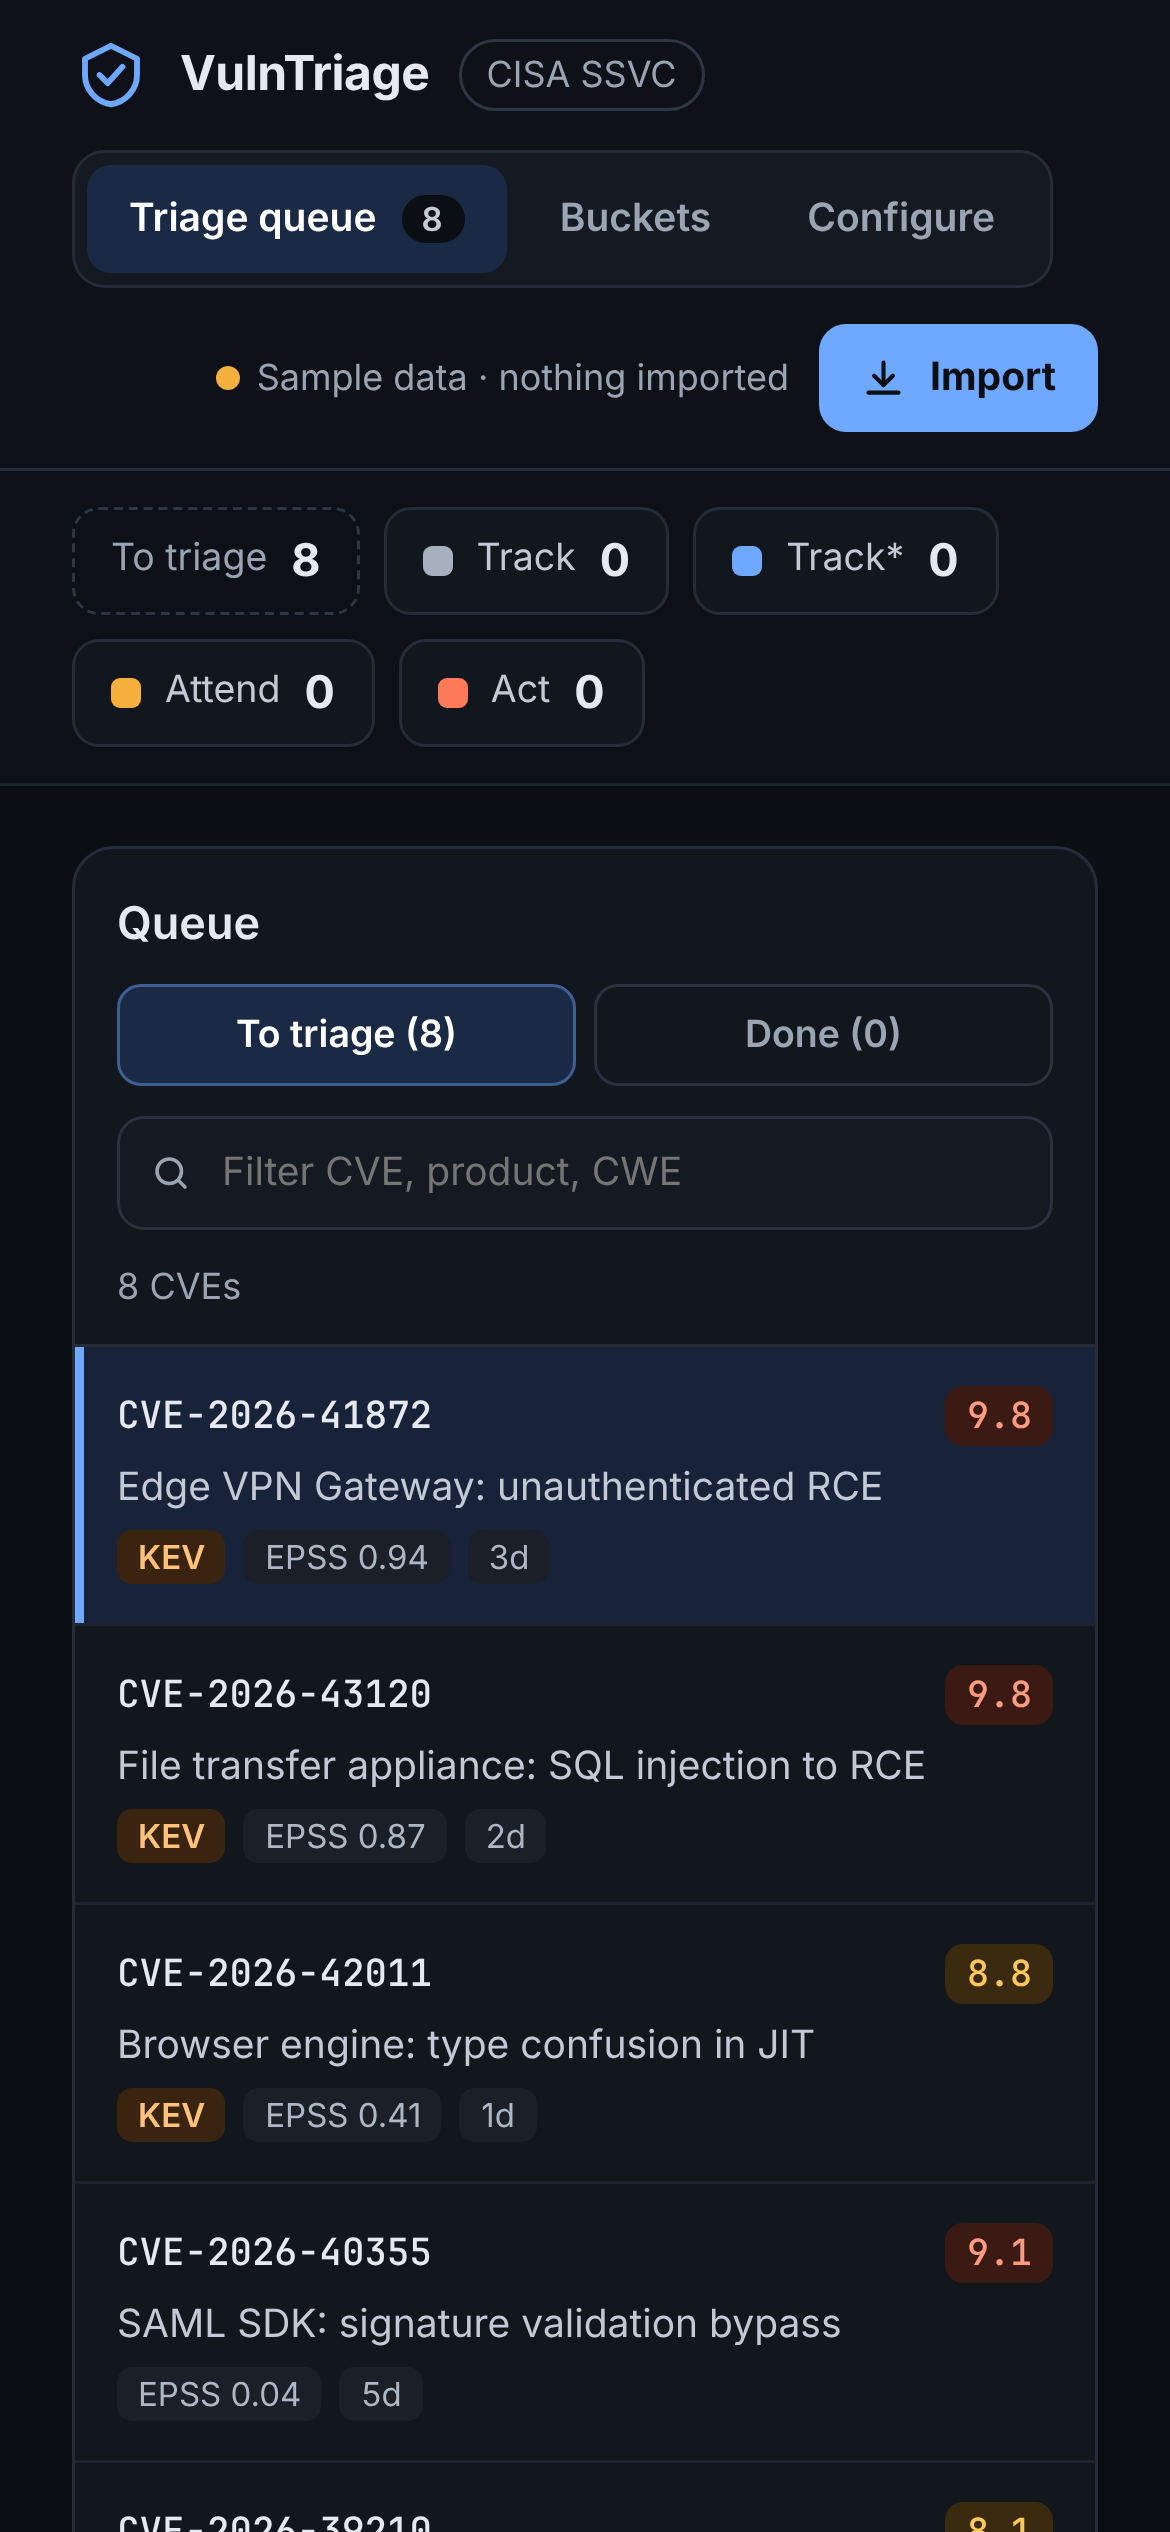
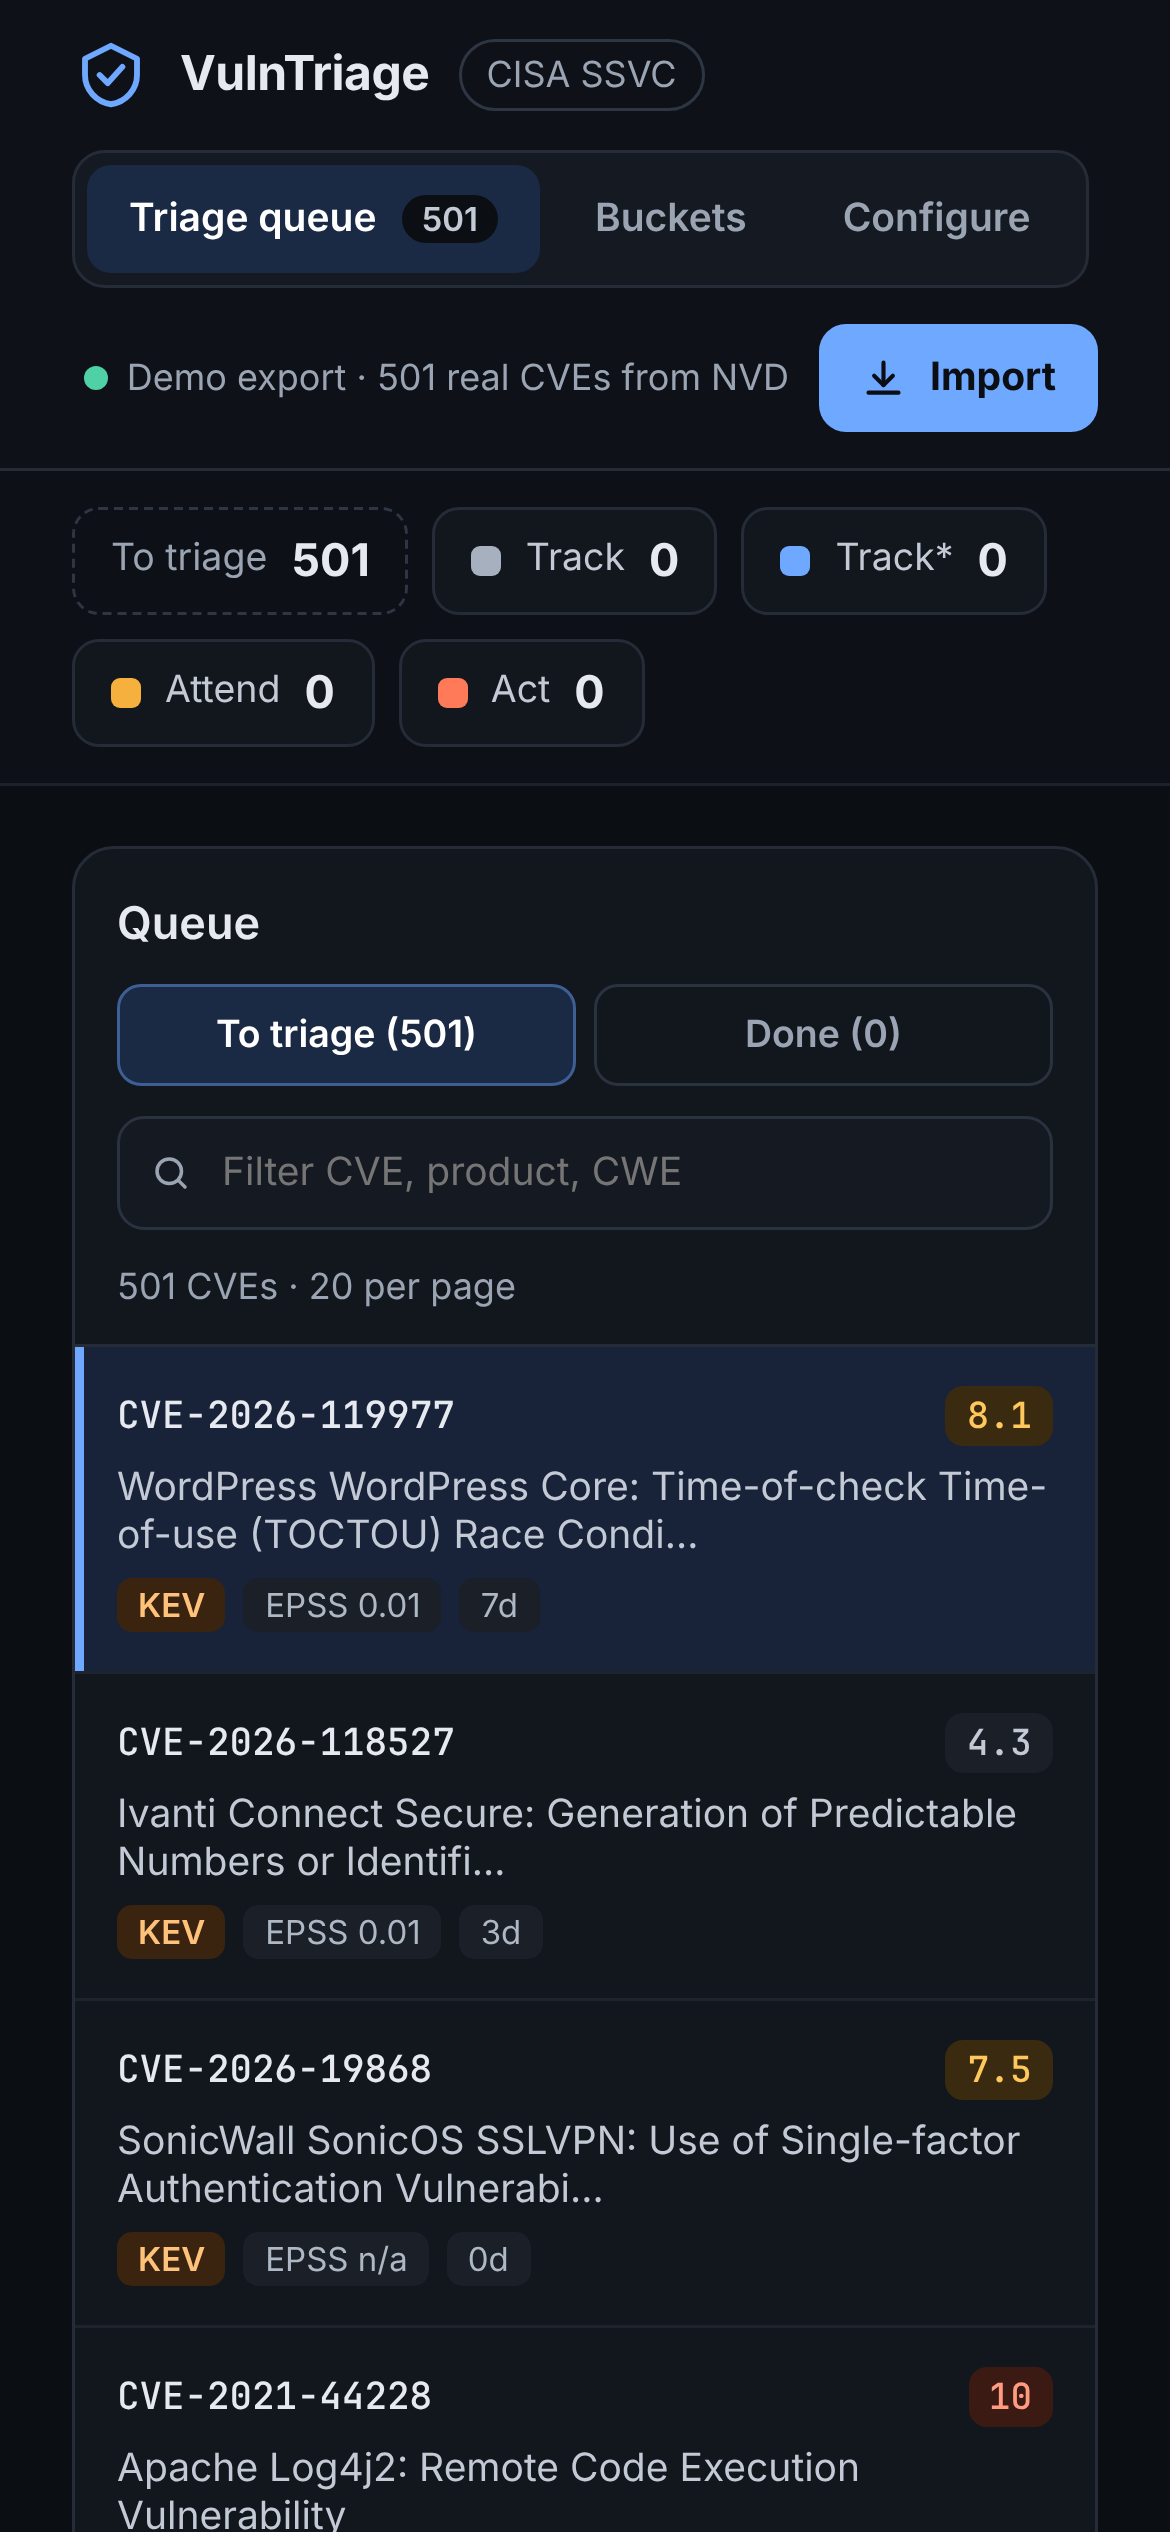
Open on the 501-CVE demo export instead of the invented samples
A first visit, or a browser that only ever had the samples, now loads
examples/triage-queue-demo.json as the queue. Saved imports and
decisions are kept. Opened from disk, where the request is blocked,
the page falls back to the eight built-in samples. Clear saved data
returns to the demo export, the header reads "Demo export · 501 real
CVEs from NVD", and the import toggle says what it will replace.

Screenshots now show the real data; the README follows.

diff --git a/src/app.js b/src/app.js
@@ -7,6 +7,26 @@ class Component extends DCLogic {
       filterText: '', rationale: '', qpage: null, boardShow: {}, pasteOpen: false, replaceSampleApplied: false };
     const saved = this.loadSaved();
     if (saved) Object.assign(this.state, saved);
+    // Nothing of the user's own yet: open on the demo export rather than the eight invented samples.
+    this._wantDemo = !saved || (!saved.imported.length && !Object.keys(saved.records).length);
+  }
+
+  componentDidMount() { if (this._wantDemo) this.loadDemoDataset(); }
+
+  demoUrl() { return 'examples/triage-queue-demo.json'; }
+
+  // Loads the demo export as the queue, replacing the built-in samples. Opened from disk
+  // (file://) the request fails and the samples stay, which still works offline.
+  loadDemoDataset() {
+    return fetch(this.demoUrl(), { cache: 'no-cache' }).then((r) => { if (!r.ok) throw new Error('HTTP ' + r.status); return r.json(); })
+      .then((doc) => {
+        const items = this.fromExport(doc);
+        if (!items.length || this.state.imported.length) return;
+        const first = items.find((v) => !this.state.records[v.id]) || items[0];
+        this.setState({ imported: items, replaceSampleApplied: true, sel: first.id, ans: {}, rationale: '', qpage: null, skipped: {},
+          importMeta: { name: 'the demo export', generated: doc.generated_at, count: items.length, demo: true } });
+      })
+      .catch(() => { /* keep the built-in samples */ });
   }
 
   palette() { return ['#A7B0BE', '#6EA8FF', '#4FD1A5', '#F5B03D', '#FF7A59', '#C792EA']; }
@@ -476,14 +496,16 @@ class Component extends DCLogic {
           sel: first.id, ans: {}, rationale: '', importMeta: { name: pvw.fileName, generated: pvw.doc.generated_at, count: imported.length },
           toast: { text: 'Imported ' + added + ' new' + (updated ? ', updated ' + updated : '') + ' from ' + pvw.fileName, color: '#6EA8FF' } });
       },
+      replaceLabel: st.importMeta && st.importMeta.demo ? 'Replace the demo CVEs (otherwise imports are added to the queue)'
+        : (st.imported.length ? 'Replace earlier imports and the sample CVEs (otherwise imports are added to the queue)' : 'Replace the sample CVEs (otherwise imports are added to the queue)'),
       sourceDot: st.importMeta ? 'background: #4FD1A5' : 'background: #F5B03D',
-      sourceText: st.importMeta ? st.importMeta.count + ' imported from ' + st.importMeta.name : 'Sample data · nothing imported',
+      sourceText: st.importMeta ? (st.importMeta.demo ? 'Demo export · ' + st.importMeta.count + ' real CVEs from NVD' : st.importMeta.count + ' imported from ' + st.importMeta.name) : 'Sample data · nothing imported',
       filterText: st.filterText, setFilter: (e) => this.setState({ filterText: e.target.value, qpage: 0 }),
       rationale: st.rationale, setRationale: (e) => this.setState({ rationale: e.target.value }),
       pasteOpen: st.pasteOpen, pasteExpanded: st.pasteOpen ? 'true' : 'false', pasteVal: st.paste,
       togglePaste: () => this.setState({ pasteOpen: !this.state.pasteOpen }),
       loadDemo: () => {
-        fetch('examples/triage-queue-demo.json').then((r) => { if (!r.ok) throw new Error('HTTP ' + r.status); return r.text(); })
+        fetch(this.demoUrl(), { cache: 'no-cache' }).then((r) => { if (!r.ok) throw new Error('HTTP ' + r.status); return r.text(); })
           .then((txt) => this.readText(txt, 'triage-queue-demo.json'))
           .catch(() => this.setState({ importErr: 'Could not load the demo file. Serve the folder over HTTP (for example: python3 -m http.server) rather than opening index.html directly.' }));
       },
@@ -513,7 +535,8 @@ class Component extends DCLogic {
       clearSaved: () => {
         if (!window.confirm('Clear the saved flow, decisions and imports from this browser?')) return;
         try { window.localStorage.removeItem(this.storageKey()); } catch (_) { /* ignore */ }
-        this.setState({ config: this.cisa(), records: {}, imported: [], importMeta: null, replaceSampleApplied: false, sel: 'CVE-2026-41872', ans: {}, rationale: '', skipped: {}, toast: null });
+        this.setState({ config: this.cisa(), records: {}, imported: [], importMeta: null, replaceSampleApplied: false, sel: 'CVE-2026-41872', ans: {}, rationale: '', skipped: {}, toast: null, qpage: null, boardShow: {} });
+        this.loadDemoDataset();
       },
       tabs: tabs, isQueue: st.tab === 'queue', isBoard: st.tab === 'board', isConfig: st.tab === 'config',
       flowName: cfg.name, setFlowName: (e) => { const v = e.target.value; this.upd((c) => { c.name = v; }); },

diff --git a/index.html b/index.html
@@ -96,7 +96,7 @@
             </div>
             <button onClick="{{toggleReplace}}" aria-pressed="{{pv.replacePressed}}" style="display: flex; align-items: center; gap: 10px; background: transparent; border: 0; color: #C3CAD5; font-size: 13px; cursor: pointer; padding: 4px 0; text-align: left">
               <span style="width: 36px; height: 22px; border-radius: 999px; padding: 3px; box-sizing: border-box; display: flex; {{pv.trackStyle}}"><span style="width: 16px; height: 16px; border-radius: 50%; background: #FFFFFF; {{pv.knobStyle}}"></span></span>
-              Replace the sample CVEs (otherwise imports are added to the queue)
+              {{replaceLabel}}
             </button>
           </div>
           <div style="display: flex; justify-content: flex-end; gap: 10px">

diff --git a/README.md b/README.md
@@ -19,7 +19,7 @@
 </p>
 
 <p align="center">
-  <img alt="Triage view: the evidence for each SSVC decision point pre-filled on a KEV-listed VPN gateway RCE, with the path resolving to Act, and the CVSS attack path on the right" src="docs/screenshots/overview.png" width="900">
+  <img alt="Triage view: the evidence for each SSVC decision point pre-filled on a KEV-listed WordPress Core flaw from the demo export, with the path resolving to Act, and the CVSS attack path on the right" src="docs/screenshots/overview.png" width="900">
 </p>
 
 ---
@@ -66,11 +66,11 @@ cd VulnTriage
 python3 -m http.server 8000
 ```
 
-1. Open <http://localhost:8000>. Eight invented sample CVEs are already in the queue.
+1. Open <http://localhost:8000>. The queue opens on the demo export: the top 500 of the CVEs NVD published in the week to 7 November 2026, plus Log4Shell.
 2. Press **Pre-fill from evidence**, answer **Mission & well-being**, add a rationale and **Move to bucket**.
-3. Choose **Import › Load demo export** to bring in a real VulnFlow export: 500 CVEs from NVD's Recent feed, plus Log4Shell.
+3. Choose **Import** to load your own VulnFlow export, alongside the demo CVEs or in place of them.
 
-Opening `index.html` straight from disk also works, except **Load demo export**, which needs HTTP.
+Opening `index.html` straight from disk also works, but browsers block the demo file there, so the queue starts on eight invented sample CVEs instead.
 
 ## Use cases
 
@@ -104,7 +104,7 @@ Three columns: the queue, the decision, and the evidence.
   <sub>The outcome, its remediation target, the rationale and the decision vector that gets recorded</sub>
 </p>
 
-Imported CVEs carry real data. Here is Log4Shell from the VulnFlow demo export, pre-filled from its KEV listing and CVSS vector:
+Here is Log4Shell from the demo export, pre-filled from its KEV listing and CVSS vector:
 
 <img alt="Log4Shell imported from VulnFlow: Exploitation Active from the KEV listing, Automatable Yes from AV:N/AC:L/PR:N/UI:N, and NVD's summary, fixed versions and exploit references on the right" src="docs/screenshots/log4shell.png" width="900">
 
@@ -155,7 +155,7 @@ Or, from a VulnFlow checkout:
 uv run examples/scripts/triage_queue.py data/triage-queue.json --min-epss 0.01
 ```
 
-Then **Import** in the top bar and drop the file in. The preview shows how many CVEs, how many are in KEV and how many are already in the queue. Re-imported CVEs are updated, not duplicated; switch on **Replace the sample CVEs** to drop the built-in examples.
+Then **Import** in the top bar and drop the file in. The preview shows how many CVEs, how many are in KEV and how many are already in the queue. Re-imported CVEs are updated, not duplicated; switch on **Replace** to drop the demo CVEs (or the built-in samples) and keep only your export.
 
 <p align="center">
   <img alt="Import dialog previewing the VulnFlow demo export: 501 CVEs, 4 in KEV, 3,603 matched before the 500 limit" src="docs/screenshots/import.png" width="640">
@@ -176,7 +176,7 @@ Anything else can produce the format too. It's documented in [`docs/queue-schema
 Everything lives in the browser's `localStorage`. Nothing is sent anywhere.
 
 > [!IMPORTANT]
-> Clearing site data removes your decisions. Export them from **Buckets** and your flow from **Configure** before you do. **Clear saved data** in Configure resets the page to the sample data.
+> Clearing site data removes your decisions. Export them from **Buckets** and your flow from **Configure** before you do. **Clear saved data** in Configure resets the page to the demo export.
 
 | Format | Written by | Contents |
 |---|---|---|
@@ -226,7 +226,7 @@ The script serves the repository itself, clears local storage, and drives the re
 
 - **The CISA outcome table is transcribed by hand.** It needs tests against the CISA SSVC guide before anyone relies on it.
 - **Single browser.** Sharing a queue across a team needs a backend; for now, move flows and decisions as JSON.
-- **The eight built-in sample CVEs are invented.** They disappear once you import with **Replace the sample CVEs**.
+- **The demo export is a snapshot.** It's the NVD Recent feed on 7 November 2026; regenerate it with VulnFlow's `examples/scripts/triage_queue.py` for current data. The eight built-in sample CVEs used when the page is opened from disk are invented.
 - **Asset context is manual.** Mission prevalence and well-being are answered by the analyst every time.
 
 **Planned**
